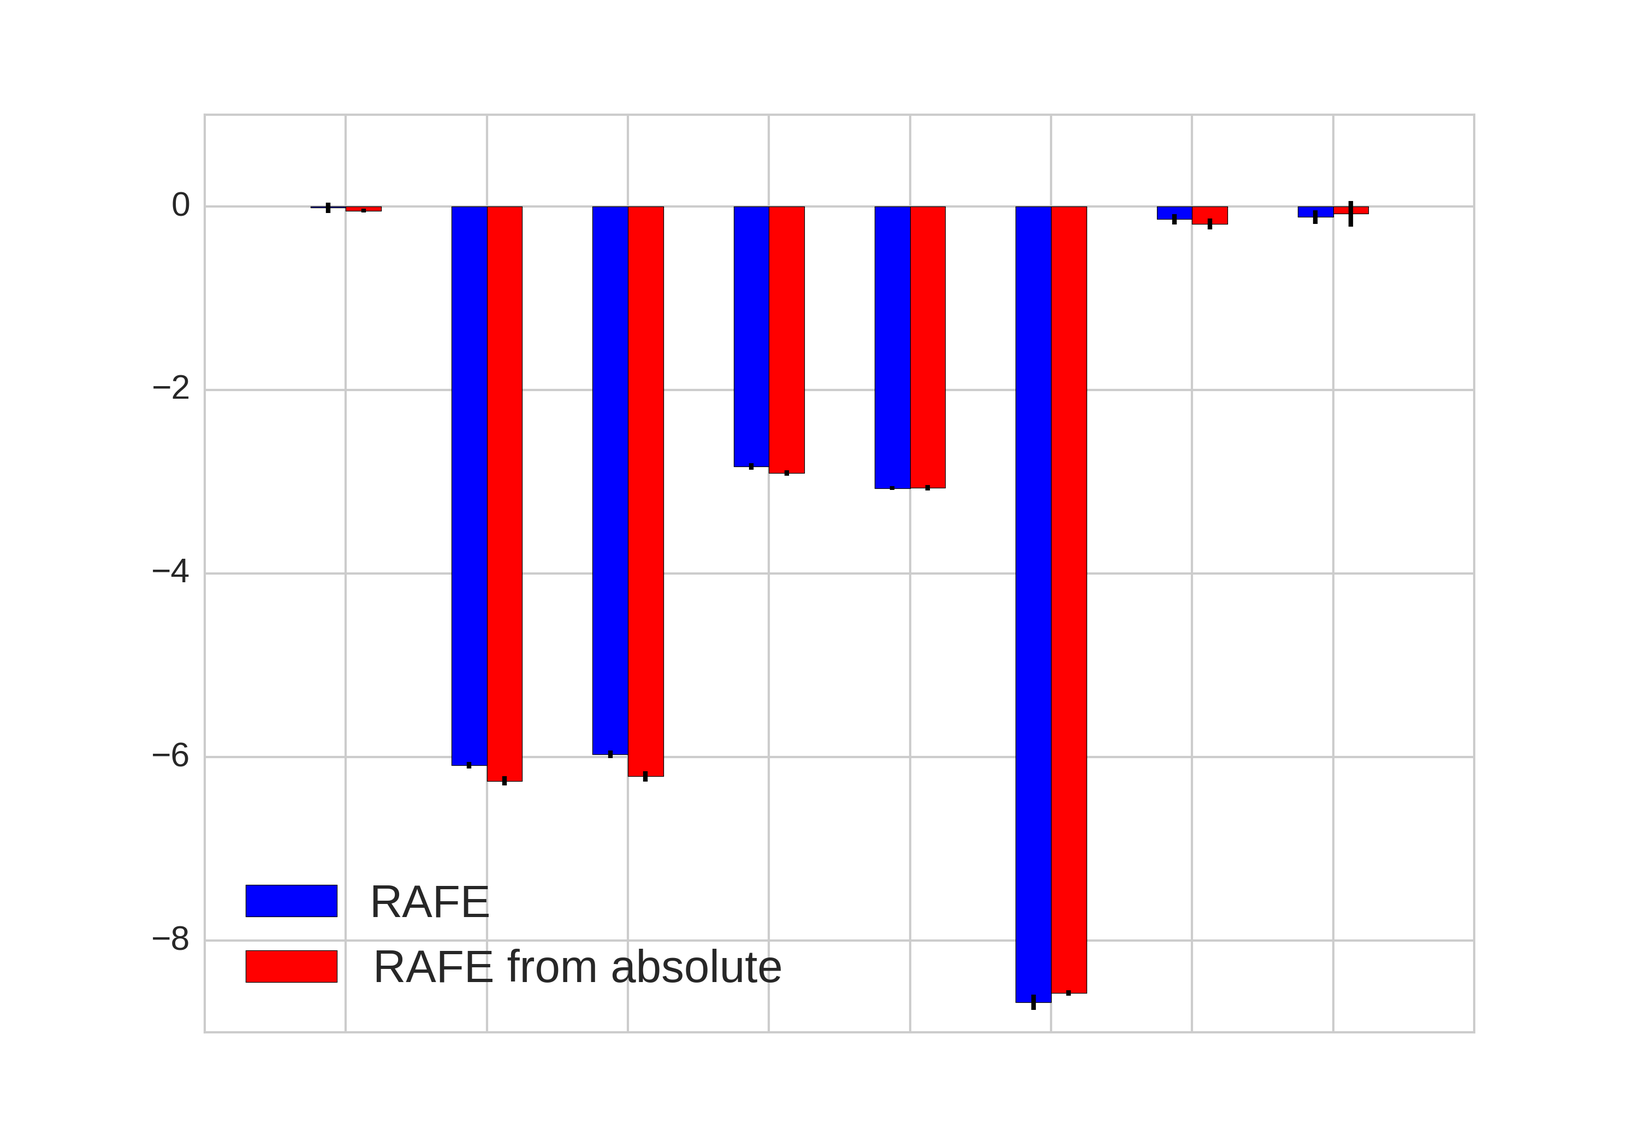
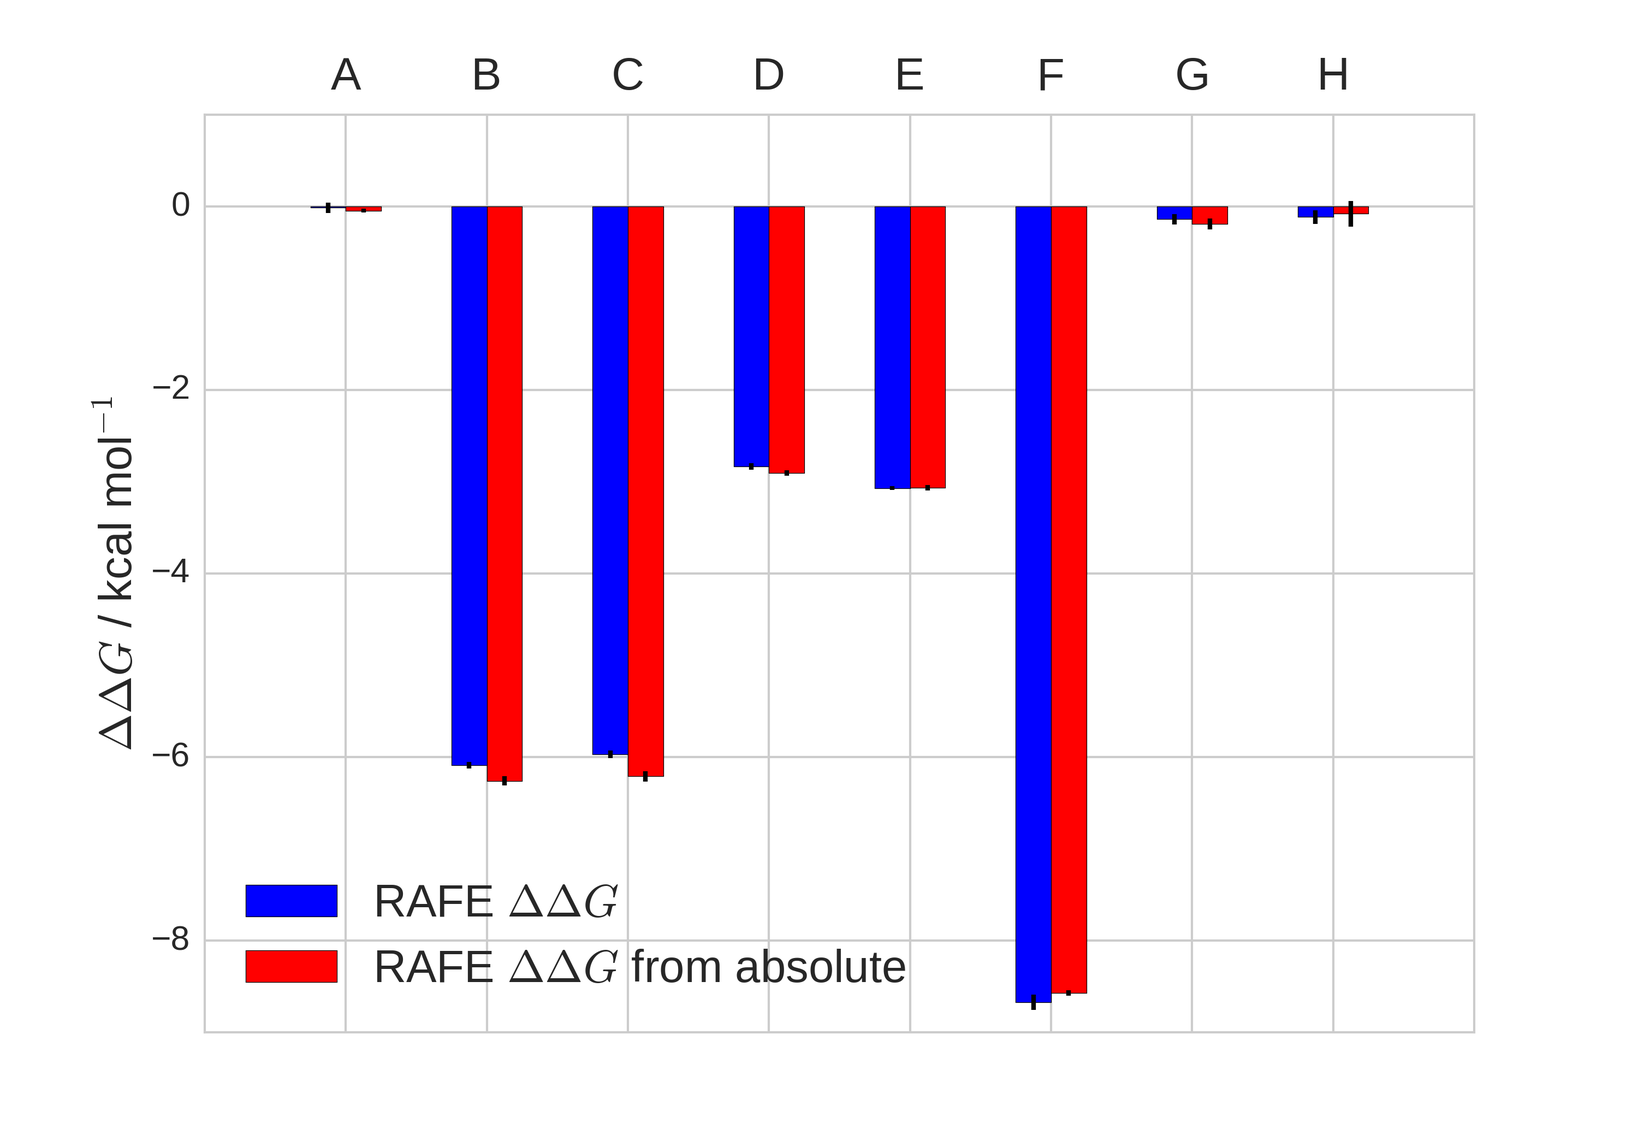
Revision 1.1, modification of main histogram and SI figures

diff --git a/reprod.tex b/reprod.tex
@@ -662,35 +662,31 @@ A discrepancy of consistently 0.2--\SI{0.4}{kcal.mol^{-1}} is evident from every
 \label{sec:somd-results}
 \begin{figure}[ht]
   \includegraphics[width=\textwidth]{figures/sire_histogram.pdf}
-  \caption{Give a caption here explaining RAFE }
+  \caption{Relative free energy of hydration $\Delta\Delta G$ estimation from RAFE calculations compared with $\Delta\Delta G$ computed from absolute free energy calculations for A: methane to ethane, B: ethane to methanol, C: methane to methanol, D: methane to 2-methylfuran, E: methane to toluene,
+  F: methane to 2-methylindole, G: methane to neopentane, H: 2-cyclopentanylindole to 7-cyclopentanylindole.}
   \label{fig:sire_histogram}
 \end{figure}
 
 
-Figure ~\ref{fig:sire_histogram} compares RAFE with RAFE estimations from absolute free energy calculations, according to the best protocol for Sire/SOMD. A very good agreement is present between both estimations, highlighting consistency and reproducibility of results in Sire/SOMD itself, with a correlation index $R^2$=\SI{0.99} and a mean unsigned error MUE=\SI{0.10}{kcal mol^{-1}} 
-(NB we could write a 95\% confidence interval MUE: \SI{0.08}< \SI{0.11} < \SI{0.14}{kcal mol^{-1}})
-To achieve reproducibility in Sire/SOMD and among all the other codes, the role of constraints was crucial and a new kind of constraint was employed: unperturbed hydrogen bond constraint. Here, all the unperturbed hydrogen atoms'bonds are constrained, while the masses of the perturbed hydrogen atoms,namely atoms which undergo a transformation, are equal to the heaviest final state mass. In this way a symmetry between forward and backward mapping is guaranteed, preserving a timestep of \SI{2}{fs}, differently from using no constraints as in Amber, GROMACS or CHARMM. 
+Figure ~\ref{fig:sire_histogram} compares relative hydration free energy $\Delta\Delta G$ with $\Delta\Delta G$ estimations from absolute free energy calculations, according to the best protocol for Sire/SOMD. A very good agreement is present between both estimations, highlighting consistency and reproducibility of results in Sire/SOMD itself, with a correlation index $R^2$=\SI{0.99}{} and a mean unsigned error MUE=\SI{0.10}{kcal.mol^{-1}} 
+(NB we could write a 95\% confidence interval MUE: \SI{0.08}< \SI{0.11} < \SI{0.14}{kcal.mol^{-1}})
+To achieve reproducibility in Sire/SOMD and among all the other codes, the role of constraints was crucial and a new kind of constraint was employed: unperturbed hydrogen bond constraint. Here, all the unperturbed hydrogen atoms'bonds are constrained, while the masses of the perturbed hydrogen atoms, namely atoms which undergo a transformation, are equal to the heaviest final state mass. In this way a symmetry between forward and backward mapping is guaranteed, preserving a timestep of \SI{2}{fs}, differently from using no constraints as in Amber, GROMACS or CHARMM. 
 
-This new kind of constraint overcomes issues encountered with Sire/SOMD starting protocol. Usually, RAFE calculations in Sire/SOMD all bonds were constrained, in order to have a timestep of \SI{2}{fs} or even greater ~\cite{hopkins2015long}, enhancing sampling with a reasonable computational cost.
-However, from a technical point of view, all bond constraints in Sire/SOMD set all the bonds energies to zero. Such an approximation may be true for small and rigid molecules, but a systematic offset of about \SI{0.3}{kcal mol^{-1}}for each bond is introduced in perturbation such as methane to neopentane, where several carbon hydrogen bonds are transformed.
-Considering neopentane to methane (centrally mapped) this bias gives a RAFE $\Delta$G=\SI{2.04 +- 0.01}{kcal mol^{-1}} contrasting the absolute calculations $\Delta$G=\SI{-0.190 +- 0.06}{kcal mol^{-1}}, as tab.~\ref{S-tab:sire_constraints} and fig.~\ref{S-fig:sire_constraints} show.
-Furthermore, simulation of neopentane to methane (terminally mapped) shows a $\Delta\Delta G_{\mathrm{hyd}}$ =\SI{0.59 +- 0.01}{kcal.mol^{-1}} and $\Delta\Delta G_{\mathrm{hyd}}$ =\SI{-0.48 +- 0.01}{kcal.mol^{-1}} for the reverse path. As the free energy must be independent of the chosen path the discrepancy denotes a problem with using constraints on transformed atoms. 
+This new kind of constraint overcomes issues encountered with Sire/SOMD starting protocol. Usually, RAFE calculations in Sire/SOMD all bonds were constrained, in order to have a timestep of \SI{2}{fs} or even greater~\cite{hopkins2015long}, enhancing sampling with a reasonable computational cost.
+However, from a technical point of view, all bond constraints in Sire/SOMD set all the bonds energies to zero. Such an approximation may be true for small and rigid molecules, but a systematic offset of about \SI{0.3}{kcal.mol^{-1}} for each bond is introduced in perturbation such as methane to neopentane, where several carbon--hydrogen bonds are mapped into carbon--carbon bonds.
+Considering neopentane to methane (centrally mapped) this bias gives a RAFE $\Delta\Delta G$=\SI{2.04 +- 0.01}{kcal.mol^{-1}} contrasting the absolute calculations $\Delta\Delta G$=\SI{-0.19 +- 0.06}{kcal.mol^{-1}}, as tab.~\ref{S-tab:sire_constraints} and fig.~\ref{S-fig:sire_constraints} show.
+Furthermore, simulation of neopentane to methane (terminally mapped) shows a $\Delta\Delta G$ =\SI{0.59 +- 0.01}{kcal.mol^{-1}} and $\Delta\Delta G$ =\SI{-0.48 +- 0.01}{kcal.mol^{-1}} for the reverse path. As the free energy must be independent of the chosen path this discrepancy denotes a problem with using constraints on transformed atoms. 
 Such an offset was documented by Boresch and Kollman ~\cite{pearlman1991overlookeds, doi:10.1021/jp981628n,doi:10.1021/jp981629f}, as a missing bond-stretching term, to be accounted for, which can be estimated as: 
 \begin{equation}
  \label{eq:allbondserror}
- \Delta G= RT\ln ( \frac{r_{\mathrm{i}}}{r_\mathrm{f}} )  
+ \Delta G= RT\ln \left ( \frac{r_{\mathrm{i}}}{r_\mathrm{f}} \right)  
 \end{equation}
-where $r_{\mathrm{i}}$ and $r_{\mathrm{f}}$ are the initial and final bond length respectively. Although for small bond lengths change this error may be negligible, it becomes pivotal for perturbations of  hydrogen atoms to carbon, nitrogen, oxygen or sulphur, where the bond length changes of several tenth of Angstrom
+where $r_{\mathrm{i}}$ and $r_{\mathrm{f}}$ are the initial and final bond length respectively. Although for small bond lengths change this error may be negligible, it becomes pivotal for perturbations of  hydrogen atoms to carbon, nitrogen or oxygen, where the bond length changes of several tenth of Angstrom
 
-To test the goodness of unperturbed hydrogen bond constraints a comparison with no constraints simulations has been made. Figure SI shows that both protocols attains the same results between RAFE and absolute free energy estimations with a MUE between both predictions of XXX
-
-The advantage of such a new protocl is to use still a good timestep and sa single topology apporach
-namely with one perturbation/simulatoins Sire/SOmD si able to cgive as the ssame results as gromacs amber charmm
-furthermore a comparison between reaciton field can be done
-Now discuss about the fact that we can use a single step and results are compatible with gromacs and co
-so we ndo not need further step s with the current technical implementation of the software
-furthermore we could carried out a comparison with gromacs reaction field results
-we are using bw their are using a generalized group based cutoff  [S-] to cite your SI
+To test the goodness of unperturbed hydrogen bond constraints a comparison with no constraints simulations has been made. Figure~\ref{S-fig:sire_constraints} shows that both protocols attains the same results with a final MUE=\SI{0.09}{kcal.mol^{-1}}.
+The new protocol in Sire/SOMD can rely on a high reproducibility of results by using a high timestep and a single topology approach~\ref{sec:methods}.
+requiring a single step for relative fre eenergy calculations.
+What about the role of RF?
 
 
 

diff --git a/figures/sire-scripts/SI_constraints_histogram/constraints.py b/figures/sire-scripts/SI_constraints_histogram/constraints.py
@@ -21,21 +21,21 @@ fig = plt.figure(figsize=[10,7])
 ax = fig.add_subplot(111)
 
 #BARS:
-#methane ~ethane
+#methane ~ethane A
 methethallb = ax.bar(ind[0],-0.4860,width,color=colors[0],yerr=0.003,\
                  error_kw = dict(elinewidth=2,ecolor="black"))
 methethnoconstr = ax.bar(ind[0]+width,-0.1863,width,color=colors[1],yerr=0.0413,\
                  error_kw = dict(elinewidth=2,ecolor="black"))
 methethnohbonds = ax.bar(ind[0]+2*width,-0.0144,width,color=colors[2],yerr=0.0557,\
                  error_kw = dict(elinewidth=2,ecolor="black"))
-#ethane ~methanol
+#ethane ~methanol B
 ethmetholallb = ax.bar(ind[1],-6.2298,width,color=colors[0],yerr=0.0127,\
                 error_kw = dict(elinewidth=2,ecolor="black"))
 ethmetholnoconstr = ax.bar(ind[1]+width,-6.1476,width,color=colors[1],yerr=0.0312,\
                  error_kw = dict(elinewidth=2,ecolor="black"))
 ethmetholhbonds = ax.bar(ind[1]+2*width,-6.0911,width,color=colors[2],yerr=0.0349,\
                  error_kw = dict(elinewidth=2,ecolor="black"))
-#methane ~methanol
+#methane ~methanol C
 methmetholallb = ax.bar(ind[2],-6.0838,width,color=colors[0],yerr=0.0073,\
                  error_kw = dict(elinewidth=2,ecolor="black"))
 methmetholnoconstr = ax.bar(ind[2]+width,-6.1539,width,color=colors[1],yerr=0.0170,\
@@ -43,7 +43,7 @@ methmetholnoconstr = ax.bar(ind[2]+width,-6.1539,width,color=colors[1],yerr=0.01
 methmetholhbonds = ax.bar(ind[2]+2*width,-5.9687,width,color=colors[2],yerr=0.0417,\
                  error_kw = dict(elinewidth=2,ecolor="black"))
 
-#methane ~ 2methylfuran
+#methane ~ 2methylfuran D
 meth2mfallb = ax.bar(ind[3],-3.4023,width,color=colors[0],yerr=0.031,\
                  error_kw = dict(elinewidth=2,ecolor="black"))
 meth2mfnoconstr = ax.bar(ind[3]+width,-2.8950,width,color=colors[1],yerr=0.0637,\
@@ -51,7 +51,7 @@ meth2mfnoconstr = ax.bar(ind[3]+width,-2.8950,width,color=colors[1],yerr=0.0637,
 meth2mfnohbonds = ax.bar(ind[3]+2*width,-2.8337,width,color=colors[2],yerr=0.0365,\
                  error_kw = dict(elinewidth=2,ecolor="black"))
 
-#methane ~ toluene
+#methane ~ toluene E
 methtolallb = ax.bar(ind[4],-3.790,width,color=colors[0],yerr=0.03,\
                  error_kw = dict(elinewidth=2,ecolor="black"))
 methtolnoconstr = ax.bar(ind[4]+width,-3.0719,width,color=colors[1],yerr=0.0635,\
@@ -59,7 +59,7 @@ methtolnoconstr = ax.bar(ind[4]+width,-3.0719,width,color=colors[1],yerr=0.0635,
 methtolnohbonds = ax.bar(ind[4]+2*width,-3.0686,width,color=colors[2],yerr=0.0217,\
                  error_kw = dict(elinewidth=2,ecolor="black"))
 
-#methane ~ 2methylindole
+#methane ~ 2methylindole F
 meth2mindallb = ax.bar(ind[5],-9.150,width,color=colors[0],yerr=0.043,\
                  error_kw = dict(elinewidth=2,ecolor="black"))
 meth2mindnoconstr = ax.bar(ind[5]+width,-8.6157,width,color=colors[1],yerr=0.0413,\
@@ -67,14 +67,14 @@ meth2mindnoconstr = ax.bar(ind[5]+width,-8.6157,width,color=colors[1],yerr=0.041
 meth2mindhbonds = ax.bar(ind[5]+2*width,-8.6737,width,color=colors[2],yerr=0.0826,\
                  error_kw = dict(elinewidth=2,ecolor="black"))
 
-#methane ~ neopentane
+#methane ~ neopentane G
 methneopallb = ax.bar(ind[6],-2.0981,width,color=colors[0],yerr=0.0130,\
                  error_kw = dict(elinewidth=2,ecolor="black"))
 methneopnoconstr = ax.bar(ind[6]+width,0.0187,width,color=colors[1],yerr=0.0618,\
                  error_kw = dict(elinewidth=2,ecolor="black"))
 methneopnohbonds = ax.bar(ind[6]+2*width,0.139,width,color=colors[2],yerr=0.055,\
                  error_kw = dict(elinewidth=2,ecolor="black"))
-#methane ~ neopentane2
+#methane ~ neopentane2 H
 methneo2pallb= ax.bar(ind[7],-0.486,width,color=colors[0],yerr=0.003,\
                  error_kw = dict(elinewidth=2,ecolor="black"))
 methneo2pnoconstr = ax.bar(ind[7]+width,0.157,width,color=colors[1],yerr=0.0380,\
@@ -88,19 +88,22 @@ methneo2phbonds = ax.bar(ind[7]+2*width,0.104,width,color=colors[2],yerr=0.0628,
 #plt.yticks(arange(start,end,pace))
 #set the fontsize of the y-axis ticks
 plt.yticks(fontsize=15)
+ax.set_ylabel("$\Delta\Delta G$ / kcal mol$^{-1}$", fontsize=20)
 #set 8 point for the x ticks
 plt.xticks(arange(8))
 #now I do not put any name on the x ticks, since it may be ok to put molecules
-tick_name = ["","","","","","","","","","",""]
+tick_name = ["A","B","C","D","E","F","G","H"]
 #assign the ticks name
 xTickMarks=[str(x) for x in tick_name]
-#set the size
-xtickNames = ax.set_xticklabels(xTickMarks,fontsize=20)
-
+xtickNames = ax.set_xticklabels(xTickMarks)
+ax.xaxis.tick_top()
+#remember to first put the labels on top of the plot and then fontsize
+#otherwise it won't work- it may be a bug in matplotlib
+plt.xticks(fontsize=20)
 #grid on plot
 plt.grid(True)
 #legend here we need to fix the labels
 ax.legend((methethallb,methethnoconstr,methethnohbonds),("All bonds","None","H bonds not pert"),loc="best",fontsize=20)
 #savefigure
-plt.savefig("sire_constraints.png",dpi=300,transparent=True)
-plt.savefig("sire_constraints.pdf",dpi=300)
+plt.savefig("SI_sire_constraints.png",dpi=300,transparent=True)
+plt.savefig("SI_sire_constraints.pdf",dpi=300)

diff --git a/figures/sire-scripts/SI_relabs_differences/relabs_diff.py b/figures/sire-scripts/SI_relabs_differences/relabs_diff.py
@@ -22,48 +22,48 @@ fig = plt.figure(figsize=[10,7])
 ax = fig.add_subplot(111)
 
 #BARS:
-#methane ~ethane
+#methane ~ethane A
 methethrel = ax.bar(ind[0],-0.4860,width,color=colors[0],yerr=0.003,\
                  error_kw = dict(elinewidth=2,ecolor="black"))
 methethabs = ax.bar(ind[0]+width,-0.046,width,color=colors[1],yerr=0.021,\
                  error_kw = dict(elinewidth=2,ecolor="black"))
-#ethane ~methanol
+#ethane ~methanol B
 ethmetholrel = ax.bar(ind[1],-6.2298,width,color=colors[0],yerr=0.0127,\
                  error_kw = dict(elinewidth=2,ecolor="black"))
 ethmetholabs = ax.bar(ind[1]+width,-6.26,width,color=colors[1],yerr=0.051,\
                  error_kw = dict(elinewidth=2,ecolor="black"))
 
-#methane ~methanol
+#methane ~methanol C
 methmetholrel = ax.bar(ind[2],-6.0838,width,color=colors[0],yerr=0.0073,\
                  error_kw = dict(elinewidth=2,ecolor="black"))
 methmetholabs = ax.bar(ind[2]+width,-6.21,width,color=colors[1],yerr=0.055,\
                  error_kw = dict(elinewidth=2,ecolor="black"))
 
-#methane ~ 2methylfuran
+#methane ~ 2methylfuran D
 meth2mfrel = ax.bar(ind[3],-3.4023,width,color=colors[0],yerr=0.031,\
                  error_kw = dict(elinewidth=2,ecolor="black"))
 meth2mfabs = ax.bar(ind[3]+width,-2.903,width,color=colors[1],yerr=0.029,\
                  error_kw = dict(elinewidth=2,ecolor="black"))
 
-#methane ~ toluene
+#methane ~ toluene E
 methtolrel = ax.bar(ind[4],-3.790,width,color=colors[0],yerr=0.03,\
                  error_kw = dict(elinewidth=2,ecolor="black"))
 methtolabs = ax.bar(ind[4]+width,-3.065,width,color=colors[1],yerr=0.031,\
                  error_kw = dict(elinewidth=2,ecolor="black"))
 
-#methane ~ 2methylindole
+#methane ~ 2methylindole F
 meth2mindrel = ax.bar(ind[5],-9.150,width,color=colors[0],yerr=0.043,\
                  error_kw = dict(elinewidth=2,ecolor="black"))
 meth2mindabs = ax.bar(ind[5]+width,-8.571,width,color=colors[1],yerr=0.029,\
                  error_kw = dict(elinewidth=2,ecolor="black"))
 
-#methane ~ neopentane
+#methane ~ neopentane G
 methneoprel = ax.bar(ind[6],-2.0981,width,color=colors[0],yerr=0.0130,\
                  error_kw = dict(elinewidth=2,ecolor="black"))
 methneopabs = ax.bar(ind[6]+width,-0.190,width,color=colors[1],yerr=0.060,\
                  error_kw = dict(elinewidth=2,ecolor="black"))
 
-#methane ~ neopentane2
+#methane ~ neopentane2 H
 methneo2prel = ax.bar(ind[7],-0.486,width,color=colors[0],yerr=0.003,\
                  error_kw = dict(elinewidth=2,ecolor="black"))
 methneo2pabs = ax.bar(ind[7]+width,-0.190,width,color=colors[1],yerr=0.060,\
@@ -75,19 +75,22 @@ methneo2pabs = ax.bar(ind[7]+width,-0.190,width,color=colors[1],yerr=0.060,\
 #plt.yticks(arange(start,end,pace))
 #set the fontsize of the y-axis ticks
 plt.yticks(fontsize=15)
+ax.set_ylabel("$\Delta\Delta G$ / kcal mol$^{-1}$", fontsize=20)
 #set 8 point for the x ticks
 plt.xticks(arange(8))
-#now I do not put any name on the x ticks, since it may be ok to put molecules
-tick_name = ["","","","","","","","","","",""]
+
+tick_name = ["A","B","C","D","E","F","G","H"]
 #assign the ticks name
 xTickMarks=[str(x) for x in tick_name]
-#set the size
-xtickNames = ax.set_xticklabels(xTickMarks,fontsize=20)
-
+xtickNames = ax.set_xticklabels(xTickMarks)
+ax.xaxis.tick_top()
+#remember to first put the labels on top of the plot and then fontsize
+#otherwise it won't work- it may be a bug in matplotlib
+plt.xticks(fontsize=20)
 #grid on plot
 plt.grid(True)
 #legend here we need to fix the labels
-ax.legend((methethrel,methethabs),("RFE","RFE from AFE"),loc="best",fontsize=20)
+ax.legend((methethrel,methethabs),("RAFE $\Delta\Delta G$","RAFE $\Delta\Delta G$ from absolute"),loc="best",fontsize=20)
 #savefigure
-plt.savefig("sire_allbonds_relabs.png",dpi=300,transparent=True)
-plt.savefig("sire_allbonds_relabs.pdf",dpi=300)
+plt.savefig("SI_sire_allbonds_relabs.png",dpi=300,transparent=True)
+plt.savefig("SI_sire_allbonds_relabs.pdf",dpi=300)

diff --git a/figures/sire-scripts/paper_relabs_histogram/relabs.py b/figures/sire-scripts/paper_relabs_histogram/relabs.py
@@ -17,48 +17,48 @@ fig = plt.figure(figsize=[10,7])
 ax = fig.add_subplot(111)
 
 #BARS:
-#methane ~ethane
+#methane ~ethane A
 methethrel = ax.bar(ind[0],-0.014,width,color=colors[0],yerr=0.056,\
                  error_kw = dict(elinewidth=2,ecolor="black"))
 methethabs = ax.bar(ind[0]+width,-0.046,width,color=colors[1],yerr=0.021,\
                  error_kw = dict(elinewidth=2,ecolor="black"))
-#ethane ~methanol
+#ethane ~methanol B
 ethmetholrel = ax.bar(ind[1],-6.091,width,color=colors[0],yerr=0.035,\
                  error_kw = dict(elinewidth=2,ecolor="black"))
 ethmetholabs = ax.bar(ind[1]+width,-6.26,width,color=colors[1],yerr=0.051,\
                  error_kw = dict(elinewidth=2,ecolor="black"))
 
-#methane ~methanol
+#methane ~methanol C
 methmetholrel = ax.bar(ind[2],-5.969,width,color=colors[0],yerr=0.042,\
                  error_kw = dict(elinewidth=2,ecolor="black"))
 methmetholabs = ax.bar(ind[2]+width,-6.21,width,color=colors[1],yerr=0.055,\
                  error_kw = dict(elinewidth=2,ecolor="black"))
 
-#methane ~ 2methylfuran
+#methane ~ 2methylfuran D
 meth2mfrel = ax.bar(ind[3],-2.834,width,color=colors[0],yerr=0.037,\
                  error_kw = dict(elinewidth=2,ecolor="black"))
 meth2mfabs = ax.bar(ind[3]+width,-2.903,width,color=colors[1],yerr=0.029,\
                  error_kw = dict(elinewidth=2,ecolor="black"))
 
-#methane ~ toluene
+#methane ~ toluene E
 methtolrel = ax.bar(ind[4],-3.069,width,color=colors[0],yerr=0.022,\
                  error_kw = dict(elinewidth=2,ecolor="black"))
 methtolabs = ax.bar(ind[4]+width,-3.065,width,color=colors[1],yerr=0.031,\
                  error_kw = dict(elinewidth=2,ecolor="black"))
 
-#methane ~ 2methylindole
+#methane ~ 2methylindole F
 meth2mindrel = ax.bar(ind[5],-8.674,width,color=colors[0],yerr=0.083,\
                  error_kw = dict(elinewidth=2,ecolor="black"))
 meth2mindabs = ax.bar(ind[5]+width,-8.571,width,color=colors[1],yerr=0.029,\
                  error_kw = dict(elinewidth=2,ecolor="black"))
 
-#methane ~ neopentane
+#methane ~ neopentane G
 methneoprel = ax.bar(ind[6],-0.139,width,color=colors[0],yerr=0.055,\
                  error_kw = dict(elinewidth=2,ecolor="black"))
 methneopabs = ax.bar(ind[6]+width,-0.190,width,color=colors[1],yerr=0.060,\
                  error_kw = dict(elinewidth=2,ecolor="black"))
 
-#2~7
+#2~7 H
 cycloprel = ax.bar(ind[7],-0.116,width,color=colors[0],yerr=0.077,\
                  error_kw = dict(elinewidth=2,ecolor="black"))
 cyclopabs = ax.bar(ind[7]+width,-0.08,width,color=colors[1],yerr=0.142,\
@@ -69,19 +69,24 @@ cyclopabs = ax.bar(ind[7]+width,-0.08,width,color=colors[1],yerr=0.142,\
 #plt.yticks(arange(start,end,pace))
 #set the fontsize of the y-axis ticks
 plt.yticks(fontsize=15)
+ax.set_ylabel("$\Delta\Delta G$ / kcal mol$^{-1}$", fontsize=20)
 #set 8 point for the x ticks
 plt.xticks(arange(8))
-#now I do not put any name on the x ticks, since it may be ok to put molecules
-tick_name = ["","","","","","","","","","",""]
+tick_name = ["A","B","C","D","E","F","G","H"]
 #assign the ticks name
 xTickMarks=[str(x) for x in tick_name]
 #set the size
-xtickNames = ax.set_xticklabels(xTickMarks,fontsize=20)
-
+xtickNames = ax.set_xticklabels(xTickMarks)
+ax.xaxis.tick_top()
+#remember to first put the labels on top of the plot and then fontsize
+#otherwise it won't work- it may be a bug in matplotlib
+plt.xticks(fontsize=20)
+#now set the ab,c,d,e,f,g,h on top of the plot
+#ax.xaxis.set_label_position("top")
 #grid on plot
 plt.grid(True)
 #legend here we need to fix the labels
-ax.legend((methethrel,methethabs),("RAFE","RAFE from absolute"),loc="best",fontsize=20)
+ax.legend((methethrel,methethabs),("RAFE $\Delta\Delta G$","RAFE $\Delta\Delta G$ from absolute"),loc="best",fontsize=20)
 #savefigure
 plt.savefig("sire_histogram.png",dpi=300,transparent=True)
 plt.savefig("sire_histogram.pdf",dpi=300)

diff --git a/figures/sire-scripts/SI_constraints_histogram/statistics/mue_calculator.py b/figures/sire-scripts/SI_constraints_histogram/statistics/mue_calculator.py
@@ -1,0 +1,28 @@
+import math
+
+def mue_calculation(list1,list2):
+    mue = 0.0
+    counter = 0
+    for i,val in enumerate(list1):
+        mean = abs(val - list2[i])
+        mue +=mean
+        counter +=1
+    mue = mue/counter
+    return mue
+
+
+relative = [-0.0144,-6.0911,-5.9687,-2.8337,-3.0686,-8.6737,0.1390,0.1042]
+none = [-0.18363,0-6.1476,-6.1539,-2.8950,-3.0719,-8.6157,0.0187,0.0157]
+absolute = [0.046,-6.26,-6.21,-2.90,-3.06,-8.57,0.19,0.19]
+
+mue = mue_calculation(relative,absolute)
+print("MUE unperturbed hbonds vs absolute:")
+print(mue)
+mue = mue_calculation(relative,none)
+print("MUE unperturbed hbonds vs no constraints:")
+print(mue)
+#write everything on a file
+#outputfile = open("mue_val.dat","w")
+#outputfile.write("MUE value: %.4f" % mue)
+
+

diff --git a/SI.tex b/SI.tex
@@ -458,7 +458,7 @@ Finally, figure~\ref{fig:sire_constraints} and tab.~\ref{tab:sire_constraints} c
 \begin{table}
   \begin{minipage}{\linewidth}
     \caption{Relative free energy of hydration $\Delta\Delta G$ computed with all bond constraints, \textit{All bonds}, no constraints, \textit{None}, and unperturbed hydrogen bond constraint, \textit{unpert H bonds} }
-    \label{tab:sire-constraints}
+    \label{tab:sire_constraints}
     \makebox[\textwidth][c]{%
       \begin{tabular}{llrrrrrr}
         \toprule
